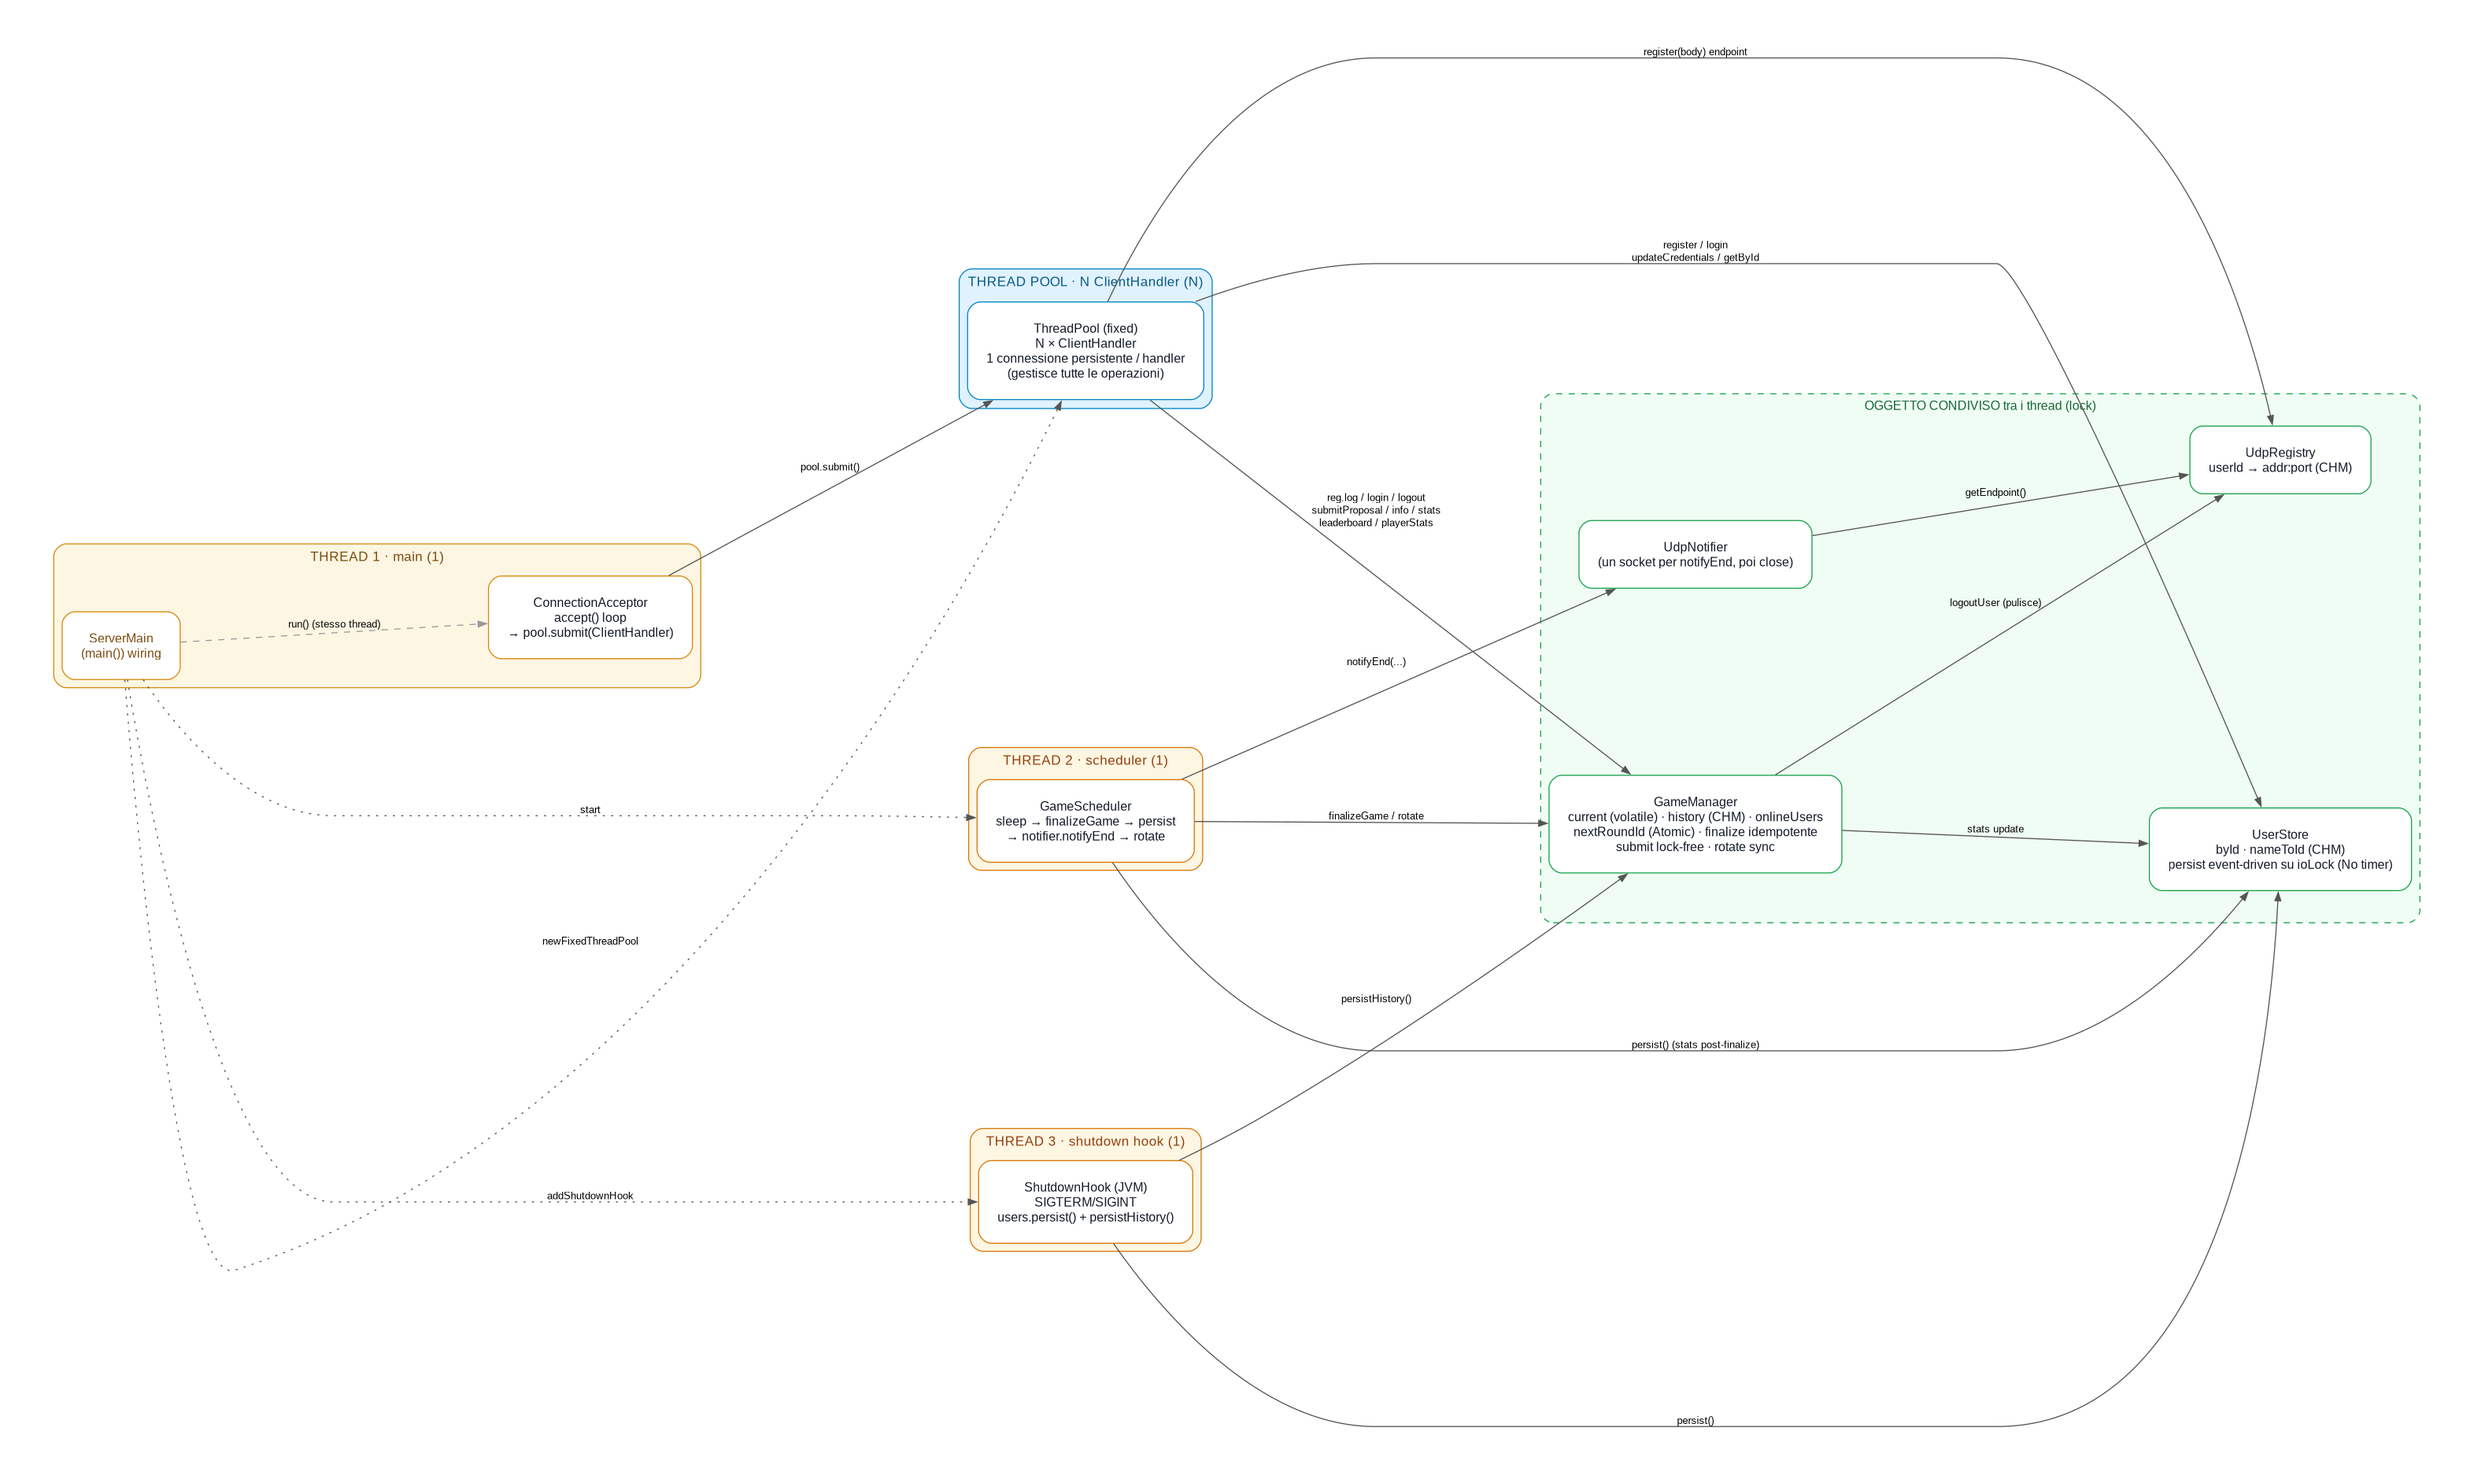
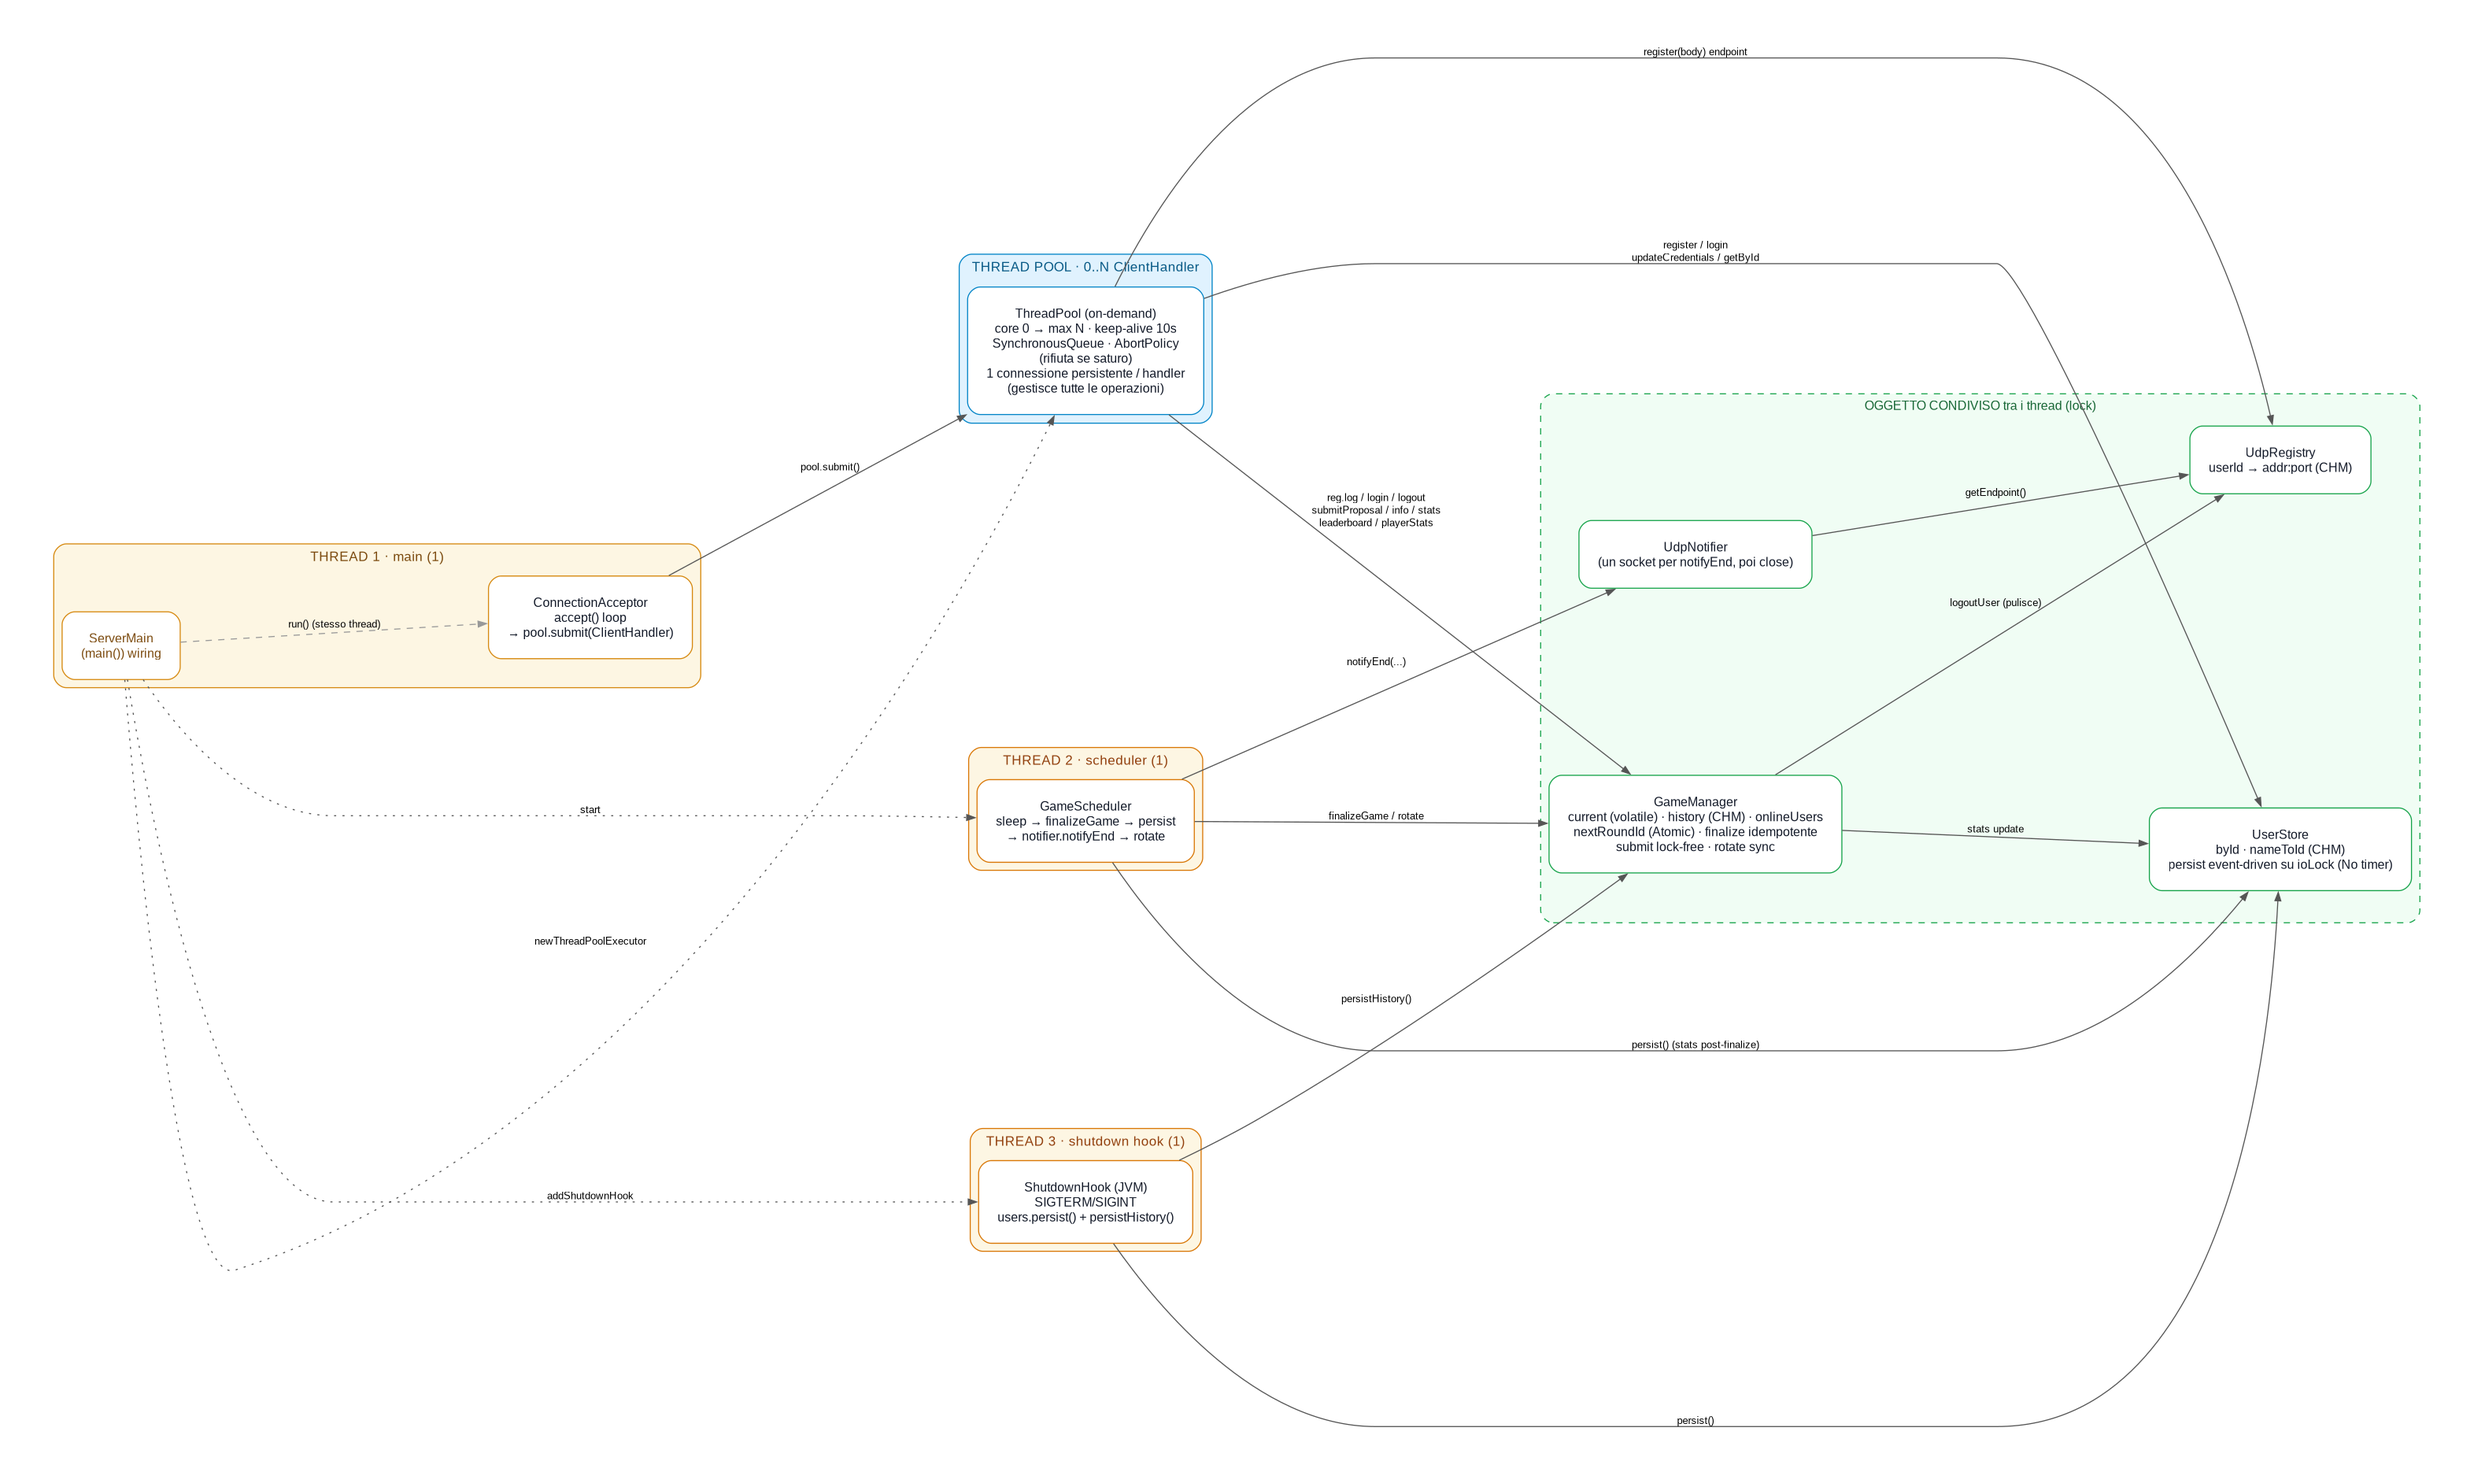
fixedthreadpool -> threadpoolexecutor custom

Changed region(s): [[0.3742, 0.1551, 0.4989, 0.3102], [0.2183, 0.6203, 0.2494, 0.6513]]

diff --git a/src/server/core/ServerMain.java b/src/server/core/ServerMain.java
@@ -5,8 +5,9 @@ import server.network.ConnectionAcceptor;
 import server.network.GameScheduler;
 
 import java.io.IOException;
-import java.util.concurrent.ExecutorService;
-import java.util.concurrent.Executors;
+import java.util.concurrent.SynchronousQueue;
+import java.util.concurrent.ThreadPoolExecutor;
+import java.util.concurrent.TimeUnit;
 
 /**
  * Entry point del server.
@@ -63,7 +64,17 @@ public class ServerMain {
         }));
 
         // 6) acceptor TCP sul thread principale
-        ExecutorService pool = Executors.newFixedThreadPool(cfg.poolSize);
+        // Pool a crescita on-demand: core 0 (nessun thread in attesa se non ci sono client),
+        // massimo pool.size, thread idle muoiono dopo 10s. SynchronousQueue consegna ogni
+        // task direttamente a un worker (con core 0 una coda unbounded non spawnerebbe mai
+        // thread); in saturazione (tutti i worker occupati) la AbortPolicy RIFIUTA il task
+        // lanciando RejectedExecutionException: l'acceptor chiude la connessione del client
+        // (che si disconnette) invece di accumulare richieste o bloccare.
+        ThreadPoolExecutor pool = new ThreadPoolExecutor(
+                0, cfg.poolSize,
+                10, TimeUnit.SECONDS,
+                new SynchronousQueue<>(),
+                new ThreadPoolExecutor.AbortPolicy());
         ConnectionAcceptor acceptor = new ConnectionAcceptor(cfg.tcpPort, pool, ctx);
         System.out.println("[Server] listening on TCP " + cfg.tcpPort + " (UDP " + cfg.udpPort + ")");
         acceptor.run();

diff --git a/src/server/network/ConnectionAcceptor.java b/src/server/network/ConnectionAcceptor.java
@@ -6,6 +6,7 @@ import java.io.IOException;
 import java.net.ServerSocket;
 import java.net.Socket;
 import java.util.concurrent.ExecutorService;
+import java.util.concurrent.RejectedExecutionException;
 
 /**
  * Accetta connessioni TCP e le smista a thread del pool.
@@ -28,7 +29,18 @@ public class ConnectionAcceptor implements Runnable {
         try (ServerSocket serverSocket = new ServerSocket(port)) {
             while (true) {
                 Socket client = serverSocket.accept();
-                pool.submit(new ClientHandler(client, ctx));
+                try {
+                    pool.submit(new ClientHandler(client, ctx));
+                } catch (RejectedExecutionException e) {
+                    // Pool saturo (tutti i worker occupati): RIFIUTA la connessione. Il socket
+                    // non è stato preso in carico da alcun worker: chiudendolo il client viene
+                    // disconnesso (e può decidere di ritentare) invece di accumularsi in coda.
+                    System.err.println("[Acceptor] pool saturo, rifiuto " + client.getInetAddress());
+                    try {
+                        client.close();
+                    } catch (IOException ignored) {
+                    }
+                }
             }
         } catch (IOException e) {
             // L'acceptor è l'unico loop di vita del server: se la ServerSocket

diff --git a/test/TestLoad.java b/test/TestLoad.java
@@ -20,7 +20,9 @@ public class TestLoad {
     public static int run(int port) throws Exception {
         int fails = 0;
         final int TS = (int) (System.nanoTime() % 100000);
-        final int nUsers = 20;
+        // client concorrenti limitato al pool del test (TC.startServer: pool.size=16):
+        // con la politica di rifiuto "AbortPolicy" chi supera il tetto viene disconnesso.
+        final int nUsers = 16;
 
         // ==== L1. login concorrenti ====
         T.section("L1. login concorrenti (" + nUsers + " utenti)");
@@ -92,7 +94,7 @@ public class TestLoad {
 
         // ==== L4. leaderboard concorrenti ====
         T.section("L4. leaderboard concorrenti (read-heavy)");
-        final int nRd = 20;
+        final int nRd = 16;
         AtomicInteger l4err = new AtomicInteger();
         List<Thread> lt = new ArrayList<>();
         long lb0 = System.nanoTime();

diff --git a/docs/explain/test/TestLoad.md b/docs/explain/test/TestLoad.md
@@ -5,7 +5,7 @@ Suite di **carico/concorrenza**: cerca colli di bottiglia e race sotto
 pressione. Usa molti `TC` (un `ClientConn` per thread) su thread concorrenti.
 
 ## `run(port)` — 5 test (L1..L5)
-- **L1 · login concorrenti** (20 utenti) — throughput (`~N login/s`); tutti i
+- **L1 · login concorrenti** (16 utenti) — throughput (`~N login/s`); tutti i
   login devono riuscire (`l1fail==0`).
 - **L2 · submit paralleli** (12 client × 4 submit) — verifica la **lock
   granulare su `PlayerState`**: le submit parallele non devono serializzarsi su
@@ -13,10 +13,14 @@ pressione. Usa molti `TC` (un `ClientConn` per thread) su thread concorrenti.
 - **L3 · doppio login + relogin dopo EOF** — login da 2 connessioni →
   `ERR_ALREADY_LOGGED_IN`; chiusura della prima (EOF) sblocca l'utente e il
   relogin riesce.
-- **L4 · leaderboard concorrenti** (20 client × 5 read) — check read-heavy:
+- **L4 · leaderboard concorrenti** (16 client × 5 read) — check read-heavy:
   nessun errore sotto letture parallele (nessun lock globale necessario).
 - **L5 · disconnect brusco** (15 client) — chiusura senza logout; il server
   resta attivo e i worker tornano al pool.
+
+> Il numero di client concorrenti di L1/L4 è **`pool.size` (16)** del server di
+> test (`TC.startServer`): con la politica `AbortPolicy` del pool on-demand chi
+> supera il tetto viene disconnesso, quindi il carico di test non deve eccederlo.
 
 ## Concorrenza
 Ogni thread usa un proprio `TC`/`ClientConn` (nessuna condizione condivisa tra

diff --git a/docs/Lab3_MD/progetto_v1_1.md b/docs/Lab3_MD/progetto_v1_1.md
@@ -22,15 +22,15 @@ Per ogni partita a cui partecipa un giocatore ottiene il seguente punteggio:
 
 Se ad esempio un giocatore invia una proposta sbagliata, poi una proposta corretta, poi un'altra proposta sbagliata e poi il tempo scade e la partita finisce il punteggio per quel giocatore per quella partita sarà -2. Se invece un giocatore vince la partita (inviando 3 proposte corrette) ma fa anche 3 errori (inviando 3 proposte sbagliate) otterrà un punteggio di +6. In Fig.1-3 è mostrata una partita in diversi stadi di gioco.
 
-![Fig. 1](imgs/fig1.png)
+![Fig. 1](images/fig1.png)
 
 **Fig. 1** Connections: uno scenario di gioco in cui il giocatore si è appena unito ad una partita. Al momento il giocatore ha accumulato 0 punti.
 
-![Fig. 2](imgs/fig2.png)
+![Fig. 2](images/fig2.png)
 
 **Fig. 2** Connections: uno scenario di gioco in cui il giocatore ha inviato due proposte corrette e due sbagliate (indicate dai punti rossi in basso). Al momento il giocatore ha accumulato 4 punti.
 
-![Fig. 3](imgs/fig3.png)
+![Fig. 3](images/fig3.png)
 
 **Fig. 3** Connections: uno scenario di gioco in cui il giocatore ha vinto la partita inviando tre proposte corrette e tre sbagliate (indicate dai punti rossi in basso). Con questa partita il giocatore ha accumulato 6 punti.
 

diff --git a/docs/explain/server/network/ConnectionAcceptor.md b/docs/explain/server/network/ConnectionAcceptor.md
@@ -7,13 +7,17 @@ line-based JSON).
 
 ## Campi
 - `port` — porta di listen (da `ServerConfig.tcpPort`).
-- `pool` — `ExecutorService` (da `ServerMain`, `cfg.poolSize`).
+- `pool` — `ThreadPoolExecutor` (da `ServerMain`, `cfg.poolSize`).
 - `ctx` — `Context` condiviso (incluso `udpRegistry`).
 
 ## Metodo principale
 - `run()` — apre `ServerSocket(port)`, ciclo `accept()` infinito; ad ogni `Socket`
-  client fa `pool.submit(new ClientHandler(client, ctx))`. Su `IOException`
-  stampa e termina.
+  client fa `pool.submit(new ClientHandler(client, ctx))`.
+  - **Saturazione**: se il pool è al massimo (`AbortPolicy`), `submit` lancia
+    `RejectedExecutionException`; l'acceptor la intercetta, logga
+    `[Acceptor] pool saturo, rifiuto <IP>` e **chiude il socket** → il client
+    viene disconnesso (non accumula task in coda, può ritentare).
+  - Su `IOException` stampa e termina il processo.
 
 ## Concorrenza
 Il ciclo `accept` gira sul **thread principale** (`ServerMain`). Ogni connessione

diff --git a/docs/explain/server/core/ServerMain.md b/docs/explain/server/core/ServerMain.md
@@ -15,7 +15,8 @@ Avvia il server: config → loader → Context → thread di supporto → shutdo
    `PersistenceThread`**: la persistenza è event-driven (vedi sotto).
 5. **Shutdown hook**: su SIGTERM/SIGINT salva `users.persist()` +
    `games.persistHistory()` → nessuna perdita dell'ultima partita finalizzata.
-6. **Acceptor TCP**: `ExecutorService` fixed pool (`cfg.poolSize`) +
+6. **Acceptor TCP**: pool **on-demand** (`ThreadPoolExecutor`, core 0 → max `cfg.poolSize`,
+   keep-alive 10s, `SynchronousQueue`, policy di rifiuto AbortPolicy) +
    `ConnectionAcceptor` sul thread principale (bloccante).
 
 ## Note
